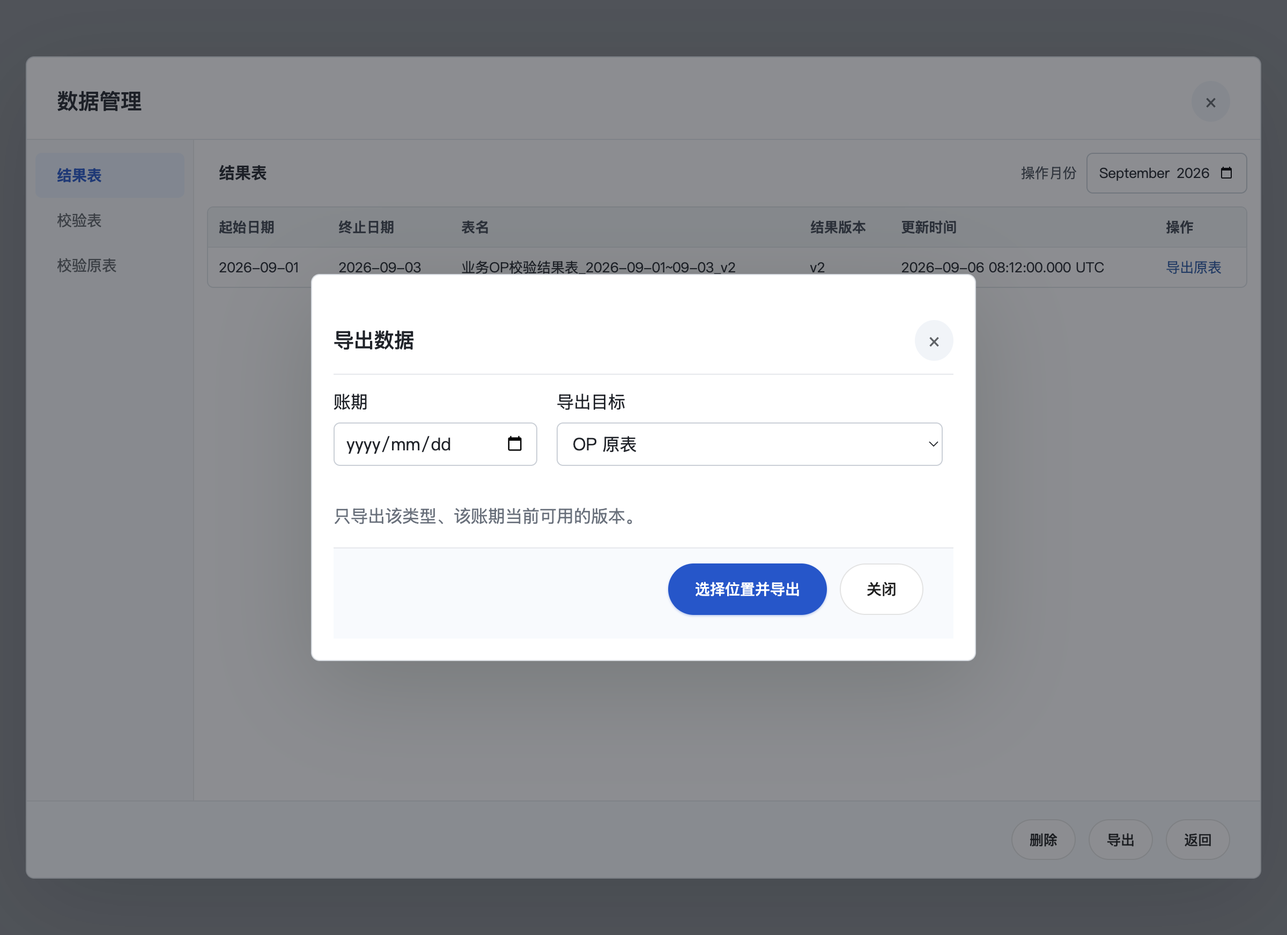
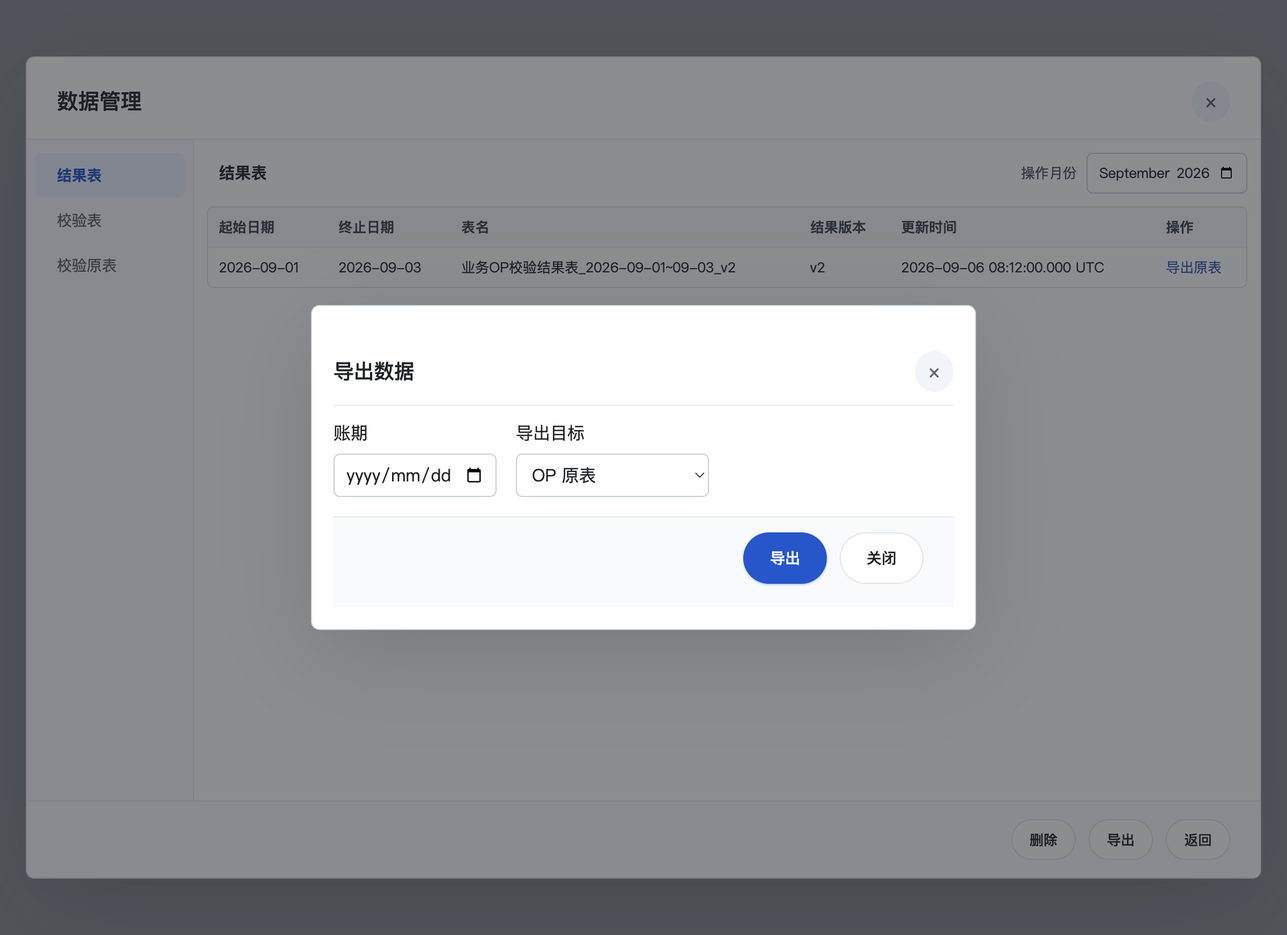
fix(biz-op): 精简导出弹窗并对齐删除标题

Changed region(s): [[0.2188, 0.2787, 0.7812, 0.5573], [0.2188, 0.5573, 0.7812, 0.7122]]

diff --git a/scripts/biz-op-v327/verify-ui.js b/scripts/biz-op-v327/verify-ui.js
@@ -91,14 +91,18 @@ const checks = [];
   await shot('02-manager');
   await check('管理页移除刷新和下一页，底部为删除、导出、返回，单页不显示页码', `(()=>{const d=document.querySelector('dialog');return [...d.querySelectorAll('.bizop-modal-footer button')].filter(b=>!b.hidden).map(b=>b.textContent).join('|')==='删除|导出|返回'&&!d.querySelector('.bizop-page-choice').checkVisibility();})()`);
   await check('业务 OP 操作标题与导出原表文字左侧对齐', `operationAlignment(document.querySelector('dialog'))`);
-  await check('导出数据的日期和目标横排缩窄，标题对齐分割线', `(()=>{
-    controller.openInputExport();const d=[...document.querySelectorAll('dialog[open]')].at(-1),a=d.querySelector('input[type=date]').getBoundingClientRect(),b=d.querySelector('select').getBoundingClientRect();
-    return Math.abs(a.top-b.top)<1&&a.right<b.left&&a.width>=180&&a.width<=200&&b.width>=280&&b.width<=360&&Math.abs(textLeft(d.querySelector('.dialog-title'))-d.querySelector('.dialog-header').getBoundingClientRect().left)<1;
+  await check('导出数据日期缩至原宽 4/5、下拉框缩至 1/2，移除说明且按钮为导出', `(()=>{
+    controller.openInputExport();const d=[...document.querySelectorAll('dialog[open]')].at(-1),fields=d.querySelector('.bizop-input-export-fields'),date=d.querySelector('input[type=date]'),choice=d.querySelector('select');
+    fields.classList.remove('bizop-input-export-fields');const original=[date.getBoundingClientRect().width,choice.getBoundingClientRect().width];fields.classList.add('bizop-input-export-fields');
+    const a=date.getBoundingClientRect(),b=choice.getBoundingClientRect();
+    return Math.abs(a.top-b.top)<1&&a.right<b.left&&Math.abs(a.width-original[0]*4/5)<1&&Math.abs(b.width-original[1]/2)<1
+      &&Math.abs(textLeft(d.querySelector('.dialog-title'))-d.querySelector('.dialog-header').getBoundingClientRect().left)<1
+      &&!d.textContent.includes('只导出该类型、该账期当前可用的版本。')&&[...d.querySelectorAll('.bizop-modal-footer button')].map(x=>x.textContent).join('|')==='导出|关闭';
   })()`);
   await shot('02-input-export');
   await js(`(async()=>{[...document.querySelectorAll('dialog')].at(-1).close();await waitUntil(()=>document.querySelectorAll('dialog').length===1);})()`);
   for (const outputKind of ['OP_RAW', 'OP_CHECK', 'FLOW_RAW', 'FLOW_CHECK']) {
-    await check(`管理内 ${outputKind} 导出保留对应输入类型和账期`, `(async()=>{button('导出').click();await waitUntil(()=>document.querySelectorAll('dialog').length===2);const d=[...document.querySelectorAll('dialog')].at(-1);d.querySelector('select').value=${JSON.stringify(outputKind)};d.querySelector('input[type=date]').value='2026-09-01';button('选择位置并导出').click();await waitUntil(()=>!controller.busy&&fixture.calls.some(x=>x[0]==='export'&&x[1]===${JSON.stringify(outputKind)}));await waitUntil(()=>document.querySelectorAll('dialog').length===1);const current=fixture.calls.filter(x=>x[0]==='currentInput').at(-1);return current[1].kind===${JSON.stringify(outputKind.split('_')[0])}&&current[1].dataDate==='2026-09-01';})()`);
+    await check(`管理内 ${outputKind} 导出保留对应输入类型和账期`, `(async()=>{button('导出').click();await waitUntil(()=>document.querySelectorAll('dialog').length===2);const d=[...document.querySelectorAll('dialog')].at(-1);d.querySelector('select').value=${JSON.stringify(outputKind)};d.querySelector('input[type=date]').value='2026-09-01';button('导出').click();await waitUntil(()=>!controller.busy&&fixture.calls.some(x=>x[0]==='export'&&x[1]===${JSON.stringify(outputKind)}));await waitUntil(()=>document.querySelectorAll('dialog').length===1);const current=fixture.calls.filter(x=>x[0]==='currentInput').at(-1);return current[1].kind===${JSON.stringify(outputKind.split('_')[0])}&&current[1].dataDate==='2026-09-01';})()`);
   }
   await js('closeDialogs()');
   await check('移除翻页按钮后 401 条结果分三页可达，换页清空删除选择并绑定 generation', `(async()=>{
@@ -131,7 +135,7 @@ const checks = [];
   await check('数据管理列顺序，主结果导出为全量原表', `(async()=>{await controller.openManager();button('导出原表').click();await waitUntil(()=>!controller.busy&&fixture.calls.some(x=>x[0]==='export'&&x[1]==='RESULT_FULL'));return [...document.querySelectorAll('th')].map(x=>x.textContent).join('|')==='起始日期|终止日期|表名|结果版本|更新时间|操作';})()`);
   await check('原表文件名作为文本，点击删除先进入选取且不执行删除', `(async()=>{button('校验原表').click();await waitUntil(()=>document.querySelector('th:nth-child(3)')?.textContent==='来源文件'&&document.querySelector('td')?.textContent==='2026-09-01'&&!button('删除').disabled);button('删除').click();await waitUntil(()=>document.querySelector('input[type=checkbox]'));const c=document.querySelector('input[type=checkbox]');c.checked=true;c.dispatchEvent(new Event('change'));return !document.querySelector('dialog img')&&!document.querySelector('dialog').textContent.includes('选取任一来源文件')&&document.querySelector('dialog').textContent.includes('<img src=x onerror=alert(1)>.xlsx')&&!fixture.calls.some(x=>x[0]==='delete');})()`);
   await shot('02-manager-select');
-  await check('删除先完整跨月份预览，精确三个按钮', `(async()=>{button('删除').click();await waitUntil(()=>document.querySelectorAll('dialog').length===2);const d=[...document.querySelectorAll('dialog')].at(-1);return d.textContent.includes('2026-08')&&[...d.querySelectorAll('footer button,.bizop-modal-footer button')].map(x=>x.textContent).join('|')==='删除但保留结果表|删除|取消'&&!fixture.calls.some(x=>x[0]==='delete');})()`);
+  await check('删除先完整跨月份预览，精确三个按钮，确认删除影响标题对齐分割线', `(async()=>{button('删除').click();await waitUntil(()=>document.querySelectorAll('dialog').length===2);const d=[...document.querySelectorAll('dialog')].at(-1);return d.textContent.includes('2026-08')&&[...d.querySelectorAll('footer button,.bizop-modal-footer button')].map(x=>x.textContent).join('|')==='删除但保留结果表|删除|取消'&&!fixture.calls.some(x=>x[0]==='delete')&&Math.abs(textLeft(d.querySelector('.dialog-title'))-d.querySelector('.dialog-header').getBoundingClientRect().left)<1;})()`);
   await shot('03-delete-impact');
   await check('保留结果选择按 mode 提交，成功后刷新', `(async()=>{button('删除但保留结果表').click();await waitUntil(()=>fixture.calls.some(x=>x[0]==='delete'));await waitUntil(()=>!controller.busy);return fixture.calls.find(x=>x[0]==='delete')[1].mode==='KEEP_RESULTS';})()`);
   await js('closeDialogs()');
@@ -180,7 +184,7 @@ const checks = [];
   })()`);
   await shot('05-result-export');
   await js('closeDialogs()');
-  await check('主导出只按操作月份和结果表选择差异', `(async()=>{await controller.openResults();const select=document.querySelector('dialog select');select.value='run-1';button('另存为差异结果').click();await waitUntil(()=>fixture.calls.some(x=>x[0]==='export'&&x[1]==='RESULT_DIFF'));await waitUntil(()=>!controller.busy);return fixture.calls.some(x=>x[0]==='export'&&x[1]==='RESULT_DIFF');})()`);
+  await check('校验结果按钮显示导出，仍按操作月份和结果表选择差异', `(async()=>{await controller.openResults();const select=document.querySelector('dialog select');select.value='run-1';button('导出').click();await waitUntil(()=>fixture.calls.some(x=>x[0]==='export'&&x[1]==='RESULT_DIFF'));await waitUntil(()=>!controller.busy);return fixture.calls.some(x=>x[0]==='export'&&x[1]==='RESULT_DIFF');})()`);
   await js('closeDialogs()');
   await check('双击只发一次导入，取消等待实际结果后才解除 busy', `(async()=>{button('导入文件').click();button('导入文件').click();await waitUntil(()=>fixture.importResolve);button('取消导入').click();await waitUntil(()=>fixture.calls.some(x=>x[0]==='cancel'));const held=controller.busy&&button('开始运行').disabled;fixture.importResolve({status:'cancelled'});await waitUntil(()=>!controller.busy);return held&&fixture.calls.filter(x=>x[0]==='import').length===1&&!button('开始运行').disabled;})()`);
   await js(`window.desktopApi={previewCapture:true,vccFinancialOp:{async listArchivedResultMonths(){return [];}}};document.querySelector('#modalRoot').hidden=false;`);

diff --git a/src/renderer-biz-op-v327.js b/src/renderer-biz-op-v327.js
@@ -178,7 +178,7 @@
     async function openResults() {
       const dialog = modal('导出校验结果表', 'vcc-fin-op-export-dialog bizop-results-dialog'); const month = node('input', undefined, 'vcc-fin-op-input'); month.type = 'month'; month.value = await latestMonth();
       const choice = select([['', '请选择结果表']]); const next = button('下一页', () => load(cursor)); let cursor = null; let generation; let loadVersion = 0;
-      const exportBtn = button('另存为差异结果', async () => { if (!choice.value) throw new Error('请先选择结果表');
+      const exportBtn = button('导出', async () => { if (!choice.value) throw new Error('请先选择结果表');
         if ((await exportObject('RESULT_DIFF', choice.value))?.status === 'ok') dialog.close(); }, 'primary-btn');
       async function load(after = null) {
         const version = ++loadVersion;
@@ -197,15 +197,15 @@
     function openInputExport({ initialKind = 'OP_RAW' } = {}) {
       const dialog = modal('导出数据', 'vcc-fin-op-export-dialog bizop-results-dialog'); const kind = select([['OP_RAW', 'OP 原表'], ['OP_CHECK', 'OP 校验表'], ['FLOW_RAW', '流水原表'], ['FLOW_CHECK', '流水校验表']]);
       kind.value = initialKind;
-      const date = dateField(); const fields = node('div', undefined, 'bizop-result-fields'); fields.append(field('账期', date), field('导出目标', kind));
-      dialog.body.append(fields, node('p', '只导出该类型、该账期当前可用的版本。'));
-      dialog.footer.prepend(button('选择位置并导出', async () => {
+      const date = dateField(); const fields = node('div', undefined, 'bizop-result-fields bizop-input-export-fields'); fields.append(field('账期', date), field('导出目标', kind));
+      dialog.body.append(fields);
+      dialog.footer.prepend(button('导出', async () => {
         const current = checked(await api.currentInput({ kind: kind.value.split('_')[0], dataDate: date.value }));
         if ((await exportObject(kind.value, current.objectId))?.status === 'ok') dialog.close();
       }, 'primary-btn'));
     }
     async function showDelete(selection, refresh) {
-      const preview = checked(await api.deletePreview(selection)); const dialog = modal('确认删除影响');
+      const preview = checked(await api.deletePreview(selection)); const dialog = modal('确认删除影响', 'bizop-delete-dialog');
       dialog.body.append(node('p', `将处理 ${preview.datasets.length} 个当前输入版本；关联 ${preview.runs.length} 对历史结果（全量表与差异表一起处理）。`));
       if (preview.datasets.length) dialog.body.append(table(['输入类型', '账期', '版本', '来源文件'], preview.datasets.map((item) => [item.kind, item.dataDate, `v${item.version}`, item.originals.map((file) => file.originalName).join('、')])));
       if (preview.runs.length) dialog.body.append(table(['操作月份', '起始日期', '终止日期', '关联结果表', '原件引用'], preview.runs.map((item) => {

diff --git a/scripts/biz-op-v327/verify-ui-cancellation.js b/scripts/biz-op-v327/verify-ui-cancellation.js
@@ -95,11 +95,11 @@ const pause = (ms) => new Promise((resolve) => setTimeout(resolve, ms));
     }
     if (['result-export', 'publish-protected'].includes(scenario)) {
       await click('导出校验结果表'); await until("document.querySelector('dialog select')?.options.length===2");
-      await js("document.querySelector('dialog select').value='run-1'"); await click('另存为差异结果');
+      await js("document.querySelector('dialog select').value='run-1'"); await click('导出');
     }
     if (scenario === 'raw-export') {
       await click('数据管理'); await until("Boolean(target('导出'))"); await click('导出');
-      await js("[...document.querySelectorAll('dialog')].at(-1).querySelector('input[type=date]').value='2026-09-01'"); await click('选择位置并导出');
+      await js("[...document.querySelectorAll('dialog')].at(-1).querySelector('input[type=date]').value='2026-09-01'"); await click('导出');
     }
     if (['manager-export', 'delete', 'keep-delete'].includes(scenario)) {
       await click('数据管理'); await until("document.querySelector('dialog td')");

diff --git a/src/styles-biz-op-v327.css b/src/styles-biz-op-v327.css
@@ -16,9 +16,10 @@
 .bizop-field { display: flex; flex-direction: column; gap: 8px; margin-bottom: 18px; flex: 1; min-width: 170px; }
 .bizop-field input, .bizop-field select { width: 100%; box-sizing: border-box; font: inherit; }
 .bizop-results-dialog { width: min(100%, 620px); }
-.bizop-results-dialog .dialog-header, .bizop-run-dialog .dialog-header, .bizop-calendar-dialog .dialog-header { padding-left: 0; padding-right: 0; }
+.bizop-results-dialog .dialog-header, .bizop-run-dialog .dialog-header, .bizop-calendar-dialog .dialog-header, .bizop-delete-dialog .dialog-header { padding-left: 0; padding-right: 0; }
 .bizop-result-fields { display: grid; grid-template-columns: 190px minmax(0, 360px); gap: 18px; }
 .bizop-result-fields .bizop-field { min-width: 0; }
+.bizop-input-export-fields { grid-template-columns: 152px min(180px, calc((100% - 190px - 18px) / 2)); }
 .bizop-run-fields { display: grid; grid-template-columns: repeat(2, calc((100% - 18px) / 3)); gap: 18px; }
 .bizop-run-fields .bizop-field { min-width: 0; }
 .bizop-run-fields input { cursor: pointer; }

diff --git a/changes/v3.2.7/pr5/layout-correction.md b/changes/v3.2.7/pr5/layout-correction.md
@@ -20,6 +20,7 @@
 
 ### 本轮明确的界面细节
 
+- 用户继续追加：导出数据移除当前可用版本说明，日期与目标下拉框相对上一版分别缩为 4/5、1/2；输入和结果导出的提交按钮统一为“导出”；确认删除影响标题对齐分割线。复用原 currentInput/pickExport/exportObject 和删除预览回调，只增加局部宽度与标题样式。
 - 运行窗口追加要求：日期框宽度为原来的 2/3；标题对齐分割线，预检按钮置左下角，移除原业务区间说明。
 - PROBE：原生日期框只能限定连续 min/max，无法禁用月份中间缺少 OP 的日期；旧日期 factory 只有自由三下拉或全部日期单选，不提供逐月日历。采用轻量原生模态月历，日期框只读，允许鼠标或键盘打开，禁用未返回的日期。
 - 新增只读 `metadata:run-calendar`：查询当前 OP head 与 ACTIVE dataset，默认按最近成功导入时间取账期月份；同批次并列按账期倒序取值。每次只返回一月最多 31 个日期及前后有数据月份，不扫描业务明细、不创建 Task。导出与管理的“操作月份”接口保持原义。
@@ -42,17 +43,18 @@
 
 ## Evidence
 
-- 最新 `verify-ui.js`：33 PASS。实际 VCC 主面板在 1200×900、1080×760 两档与 BizOP 几何对照；两类导出弹窗横排/标题对齐、实际 VCC 预览入口和 BizOP 的文字按钮对齐；401 条三页完整可达、generation 变化重载、晚到页拒绝，以及四类导出、删除影响、草稿与旧路由。新增运行窗口标题/宽度/左下角按钮测量、默认最近导入月份、跨月导航、禁用缺失日期、重复打开、关闭后晚到响应与无 OP 空态。
+- 最新 `verify-ui.js`：33 PASS。实际 VCC 主面板在 1200×900、1080×760 两档与 BizOP 几何对照；两类导出弹窗横排/标题对齐、实际 VCC 预览入口和 BizOP 的文字按钮对齐；401 条三页完整可达、generation 变化重载、晚到页拒绝，以及四类导出、删除影响、草稿与旧路由。包括运行窗口标题/宽度/左下角按钮测量、默认最近导入月份、跨月导航、禁用缺失日期、重复打开、关闭后晚到响应与无 OP 空态。最新再验证输入导出宽度精确 4/5 与 1/2、说明移除、两个导出按钮、删除确认标题；四类导出和结果差异路由保持。
 - 最新 `verify-ui-cancellation.js`：11 PASS，真实 Electron 鼠标/键盘输入。运行场景实际通过月历选择起止日期后预检、运行和取消，分别验证鼠标与 Enter/Tab，并断言无数据日期禁用。导入取消坐标与尺寸完全等于原按钮，重复取消、晚到响应及双层模态都保持；导出原表的进度框不可见，但取消仍有正确焦点、requestId 和等待行为。
-- 最新 IPC/注册合同：`biz-op-v327-ipc.test.js`、`archive-task-policy-registry.test.js`、`archive-ipc-task-contract.test.js` 合计 36 PASS / 0 SKIP / 0 FAIL。实际临时文件、SQLite 和导入/删除链验证 OP 日期、FLOW-only 排除、较早账期后导入成为默认月、前后月份、删除后更新、参数拒绝、小响应和读取不创建 Task。Main/preload 字面量集合继续精确相等，新入口显式登记为只读排除项。
+- 运行月历提交 `7a09385c` 的 IPC/注册合同：`biz-op-v327-ipc.test.js`、`archive-task-policy-registry.test.js`、`archive-ipc-task-contract.test.js` 合计 36 PASS / 0 SKIP / 0 FAIL。实际临时文件、SQLite 和导入/删除链验证 OP 日期、FLOW-only 排除、较早账期后导入成为默认月、前后月份、删除后更新、参数拒绝、小响应和读取不创建 Task。Main/preload 字面量集合继续精确相等，新入口显式登记为只读排除项；后续导出页面精简未修改该链。
 - 前一提交 `f6a6355a` 的 `biz-op-v327-export.test.js` + `biz-op-v327-export-main.test.js`：真实 Electron Node、SQLite、XLSX 和 Task/Publisher/Archive 21 PASS / 0 SKIP / 0 FAIL，包含零差异单页、完整原表说明保留、19 列对照、封存数据不变及六类共 72 个损坏反例。差异说明政策已体现在 schema/expected/actual/Main 的同一身份中；运行月历修改没有再次修改或复跑该输出链。
 - 本轮探针时序修正：明确等待原生 close 事件移除旧窗口，导出任务实际完成，且新分类列表可操作后再点击删除；不能用旧表相同的首格日期作为新列表就绪证据。首次差异页名称篡改未匹配 XLSX 属性顺序，补上“确实修改 XML”的断言后复验通过；没有放松产品行为或拒绝条件。
 - 前轮 `b32d265c` 的 19/10 项和 `f6a6355a` 的 28/11 项结果为历史记录，不与最新 33/11 项重复相加；前轮主页面先展开再聚焦的修复保留。
 - `f6a6355a` 的 VCC 前端、预览及文档回归：58 PASS / 0 FAIL；当前 lint、git diff --check 通过。未为运行月历重跑完整 release-check。
 - 首次 IPC 回归有两项旧精确清单数量断言失败；新增只读 channel 使总数 264→265、V327 20→21、exclude 128→129。同步数量后 36 项通过，集合相等断言保留，71 个 file 和 63 个 no-file mutation 数量不变。
 - `check-vars` 命中 Important-skeleton 的 `ipcRenderer`：新增 channel 已同步 Main handler、preload 和只读策略登记，真实 IPC 及字面量精确集合检查通过。另有 renderer 局部 `dialog` 和 SQL 的 `d.state` 词法命中；按 important-variables.md 的定义，它们不是 Main 的 Electron dialog 或 renderer 全局 state，未修改原生文件选择和该全局状态。用户取消分支已由上述真实输入专项验证。
+- 导出页面精简完成后重新运行 UI 33 项、真实输入 11 项、lint 和 check-vars；后者只命中已核验的局部 dialog。运行月历提交同数量的 UI 检查不与这次重复相加。最新三张导出/删除截图已逐张查看，探针及日志分别保存在 `/tmp/bizop-export-labels-20260907` 与 `/tmp/bizop-run-calendar-20260907`。
 - 页面及数据保护复核：分类切换仍清空选择并用 loadVersion 拒绝晚到列表；四类输入导出继续查询当前对象并传 Main selectionRef；删除只在完整预览后提交原 mode，来源名仍使用 textContent。未修改金额、币种、主键、版本、目录或恢复行为，未新增资金红线项。
-- 截图见 [主面板](screenshots/layout-main.png)、[原位取消](screenshots/layout-import-cancel.png)、[数据管理](screenshots/layout-manager.png)、[输入导出](screenshots/layout-input-export.png)、[结果导出](screenshots/layout-result-export.png)、[VCC 操作列](screenshots/layout-vcc-manager.png)、[导出原表期间](screenshots/layout-manager-exporting.png)、[开始运行](screenshots/layout-run.png)、[运行月历](screenshots/layout-run-calendar.png)。截图来自隔离 Electron 中的实际组件与样式，业务 API 为夹具；未把这些检查写成真实资金或目标规模验收。
+- 截图见 [主面板](screenshots/layout-main.png)、[原位取消](screenshots/layout-import-cancel.png)、[数据管理](screenshots/layout-manager.png)、[输入导出](screenshots/layout-input-export.png)、[结果导出](screenshots/layout-result-export.png)、[删除确认](screenshots/layout-delete-impact.png)、[VCC 操作列](screenshots/layout-vcc-manager.png)、[导出原表期间](screenshots/layout-manager-exporting.png)、[开始运行](screenshots/layout-run.png)、[运行月历](screenshots/layout-run-calendar.png)。截图来自隔离 Electron 中的实际组件与样式，业务 API 为夹具；未把这些检查写成真实资金或目标规模验收。
 
 ## Remaining Unknowns
 

diff --git a/docs/USER_GUIDE.md b/docs/USER_GUIDE.md
@@ -21,6 +21,8 @@
 >
 > 【开始运行】中点击起始或终止日期框，会打开最近一次成功导入的 OP 数据所在月份；如果刚补导了较早月份，就会先显示该月份。只有当前有 OP 数据的日期可选，灰色日期不能选择；左右箭头可切到前后有数据的月份。没有 OP 数据时会提示先导入。日期框支持鼠标，也可聚焦后按 Enter、空格或向下键打开，再用 Tab 和 Enter 选择。选好起止日期后，点击左下角【检查所需数据】，通过后再确认运行；检查仍会核对区间所需流水是否齐全。运行窗口日期框缩为原宽的三分之二，标题与下方分割线左对齐。
 >
+> “导出数据”窗口移除当前可用版本说明，日期框进一步缩到调整前的五分之四，导出目标下拉框缩到一半。该窗口和“导出校验结果表”的提交按钮均显示【导出】，点击后选择保存位置。“确认删除影响”标题与下方分割线左对齐。
+>
 > 首次启用会清理旧业务 OP 明细、旧结果和专属月度侧库；历史存档、原件、用户锁、其他模块与外部文件保留。新版业务数据需从原件重新导入。内存或磁盘不足、旧任务未结束时会保留保护；中途失败后继续同一次升级。激活后降回旧程序不会恢复旧业务数据，须按明确备份和人工流程处理；不要手工删除恢复记录来跳过保护。Windows 目标耐久、目标规模及人工资金、Excel/WPS 验收仍需另行完成。
 
 ---

diff --git a/CHANGELOG.md b/CHANGELOG.md
@@ -11,6 +11,7 @@
 - 页面细节：初始状态显示“欢迎使用小助手”，导入时原位显示“取消导入”；结果导出月份与表名横排缩窄，标题对齐分割线。数据管理底部改为“删除 / 导出 / 返回”，多页使用页码选择；业务 OP“导出原表”和 VCC“查看结果”均为左对齐文字按钮，与“操作”列标题对齐。
 - 导出收口：差异文件不附“核对说明”工作表，保留 19 列异常摘要并指向完整原表；零差异只输出表头页。“导出数据”的账期/目标也横排对齐；导出原表时去掉管理页进度框，选取删除时去掉整版本处理注释，确认影响与取消仍可用。
 - 运行日期：点击起止日期框后，月历默认展示最近成功导入的 OP 数据账期月份，只能选择当前有 OP 数据的日期；支持前后有数据月份切换。运行窗口标题对齐分割线，日期框缩至原宽的 2/3，【检查所需数据】移到左下角，原区间说明移除；运行前仍检查所需流水及数据版本。
+- 导出弹窗细节：移除“只导出该类型、该账期当前可用的版本。”；导出数据的日期框缩至调整前的 4/5，目标下拉框缩至 1/2。两个导出弹窗的提交按钮统一为【导出】；“确认删除影响”标题与下方分割线左对齐。
 
 ## 3.2.6 - 2026-09-05（待发布）
 

diff --git a/docs/VERSION_FEATURE_HISTORY.md b/docs/VERSION_FEATURE_HISTORY.md
@@ -14,6 +14,8 @@ PR1a—PR6 按顺序实现共享关闭观察、目录恢复、公共同步候选
 
 开始运行的起止日期改用有数据月历：每次打开默认定位最近成功导入的当前 OP 数据账期月份，只允许选择当前有 OP 数据的日期，可切到前后有数据月份。标题对齐分割线，日期框缩为原宽 2/3，检查按钮放到左下角并移除原区间说明；原流水完整性和版本预检保留。
 
+导出数据继续精简：去掉当前可用版本说明，日期框缩至调整前的 4/5，目标下拉框缩至 1/2；导出数据和导出校验结果表的提交按钮统一显示“导出”。确认删除影响标题与下方分割线左侧对齐。
+
 
 说明：
 
